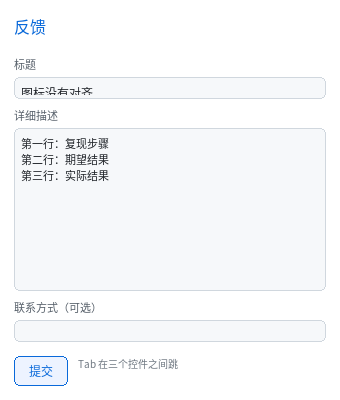
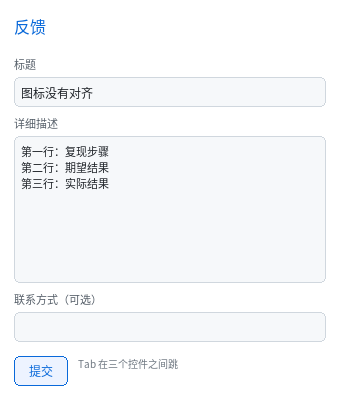
修复：多行输入框没有滚动条/滚轮滚不动；单行框文字被裁
1. 多行输入框的滚动没有出口
   textarea 的内容是它自己画的，不走容器那套 overflow + node->scroll_y，
   于是 nearest_scrollable() 找不到它 —— 滚轮在文本框上完全没反应，
   也没有滚动条可看。
   - 新增 input_scroll_max()（总视觉行数×行高 − 内容盒高）与
     input_scroll_by()（夹到 [0, max]，返回真正用掉的距离）；
   - WHEEL 分支先让最近的多行输入框吃，滚到尽头再把剩下的交给父容器；
   - 内容超高时在内容盒右缘画滑块，复用 scrollbar_thumb()，位置由
     in->scroll_y 决定；
   - 顺带把拖拽自动滚动里重复的 max 计算换成 input_scroll_max()。

2. 单行输入框文字只显示一半
   UA 给 input/select 的是 box-sizing: border-box + height: 24px，
   内容盒因此只剩 22px，而 line-height 是 24px → 上下各切一截。
   高度改成 26px（内容 24 + 上下边框 2），视觉尺寸与引入 border-box 之前一致。
   example_13_form 里写死的 height: 22px 同理改成 30px（22 内容 + 6 内边距 + 2 边框）。

测试：test_textarea +2（超高时右缘有滑块、滚轮一格画面变化且滑块下移、
连续滚到底后停住且末行仍可见）。ctest 60/60；strict、ASan、
lean/raw-only/full 预设全绿；13-form 截图重生成。

diff --git a/doc/html/tutorial/13_form.html b/doc/html/tutorial/13_form.html
@@ -339,6 +339,30 @@ main img.shot { max-width: 100%; }
 </code></pre></div>
 
 <p>横向同理（单行框也受益 —— 长文本时光标不再跑出框外）。</p>
+<h2 id="_5">滚动条与滚轮</h2>
+<p>内容的可滚范围是"总视觉行数 × 行高 − 内容盒高"（<code>input_scroll_max()</code>）。
+<strong>多行输入框的内容是它自己画的，没有子节点</strong>，所以它不走容器那套
+<code>overflow: auto</code> + <code>node-&gt;scroll_y</code>，偏移存在 <code>QLUIInput.scroll_y</code> 里：</p>
+<ul>
+<li>内容超高时在内容盒右缘画一根滑块（和容器滚动条同一个 <code>scrollbar_thumb()</code>，
+  位置由 <code>in-&gt;scroll_y</code> 决定）；</li>
+<li>滚轮事件先给多行输入框吃（<code>input_scroll_by()</code>），<strong>滚到尽头再把剩下的
+  交给父容器</strong> —— 与浏览器一致：文本框滚完，页面接着滚。</li>
+</ul>
+<div class="highlight"><pre><span></span><code><span class="cm">/* 滚轮处理里，找最近的 textarea 祖先，先让它滚 */</span>
+<span class="k">for</span><span class="w"> </span><span class="p">(</span><span class="n">QLUINodeRT</span><span class="w"> </span><span class="o">*</span><span class="n">n</span><span class="w"> </span><span class="o">=</span><span class="w"> </span><span class="n">hit</span><span class="p">;</span><span class="w"> </span><span class="n">n</span><span class="w"> </span><span class="o">!=</span><span class="w"> </span><span class="nb">NULL</span><span class="p">;</span><span class="w"> </span><span class="n">n</span><span class="w"> </span><span class="o">=</span><span class="w"> </span><span class="n">n</span><span class="o">-&gt;</span><span class="n">parent</span><span class="p">)</span><span class="w"> </span><span class="p">{</span>
+<span class="w">    </span><span class="k">struct</span><span class="w"> </span><span class="nc">QLUIInput</span><span class="w"> </span><span class="o">*</span><span class="n">in</span><span class="w"> </span><span class="o">=</span><span class="w"> </span><span class="n">input_of</span><span class="p">(</span><span class="n">ui</span><span class="p">,</span><span class="w"> </span><span class="n">n</span><span class="p">);</span>
+<span class="w">    </span><span class="k">if</span><span class="w"> </span><span class="p">(</span><span class="n">in</span><span class="w"> </span><span class="o">!=</span><span class="w"> </span><span class="nb">NULL</span><span class="w"> </span><span class="o">&amp;&amp;</span><span class="w"> </span><span class="n">in</span><span class="o">-&gt;</span><span class="n">multiline</span><span class="p">)</span><span class="w"> </span><span class="p">{</span>
+<span class="w">        </span><span class="n">dy</span><span class="w"> </span><span class="o">-=</span><span class="w"> </span><span class="n">input_scroll_by</span><span class="p">(</span><span class="n">in</span><span class="p">,</span><span class="w"> </span><span class="n">dy</span><span class="p">);</span><span class="w">      </span><span class="cm">/* 返回真正用掉的距离 */</span>
+<span class="w">        </span><span class="k">break</span><span class="p">;</span>
+<span class="w">    </span><span class="p">}</span>
+<span class="p">}</span>
+</code></pre></div>
+
+<blockquote>
+<p>这里有个坑：<code>nearest_scrollable()</code> 找不到 textarea（它不是可滚动容器），
+只靠容器那条路的话，滚轮在文本框上完全没反应。</p>
+</blockquote>
 <h2 id="x-y">拖选：按 (x, y) 定位，拖出框外会自己滚</h2>
 <p>鼠标拖选和"点哪落哪"必须走同一条定位路径：</p>
 <div class="highlight"><pre><span></span><code><span class="k">const</span><span class="w"> </span><span class="kt">uint16_t</span><span class="w"> </span><span class="n">pos</span><span class="w"> </span><span class="o">=</span><span class="w"> </span><span class="n">caret_at_xy</span><span class="p">(</span><span class="n">font</span><span class="p">,</span><span class="w"> </span><span class="n">in</span><span class="p">,</span><span class="w"> </span><span class="n">cb</span><span class="p">.</span><span class="n">w</span><span class="p">,</span><span class="w"> </span><span class="n">lh</span><span class="p">,</span>
@@ -351,14 +375,14 @@ main img.shot { max-width: 100%; }
 差别全在 <code>y</code> 上。</p>
 <p>指针拖到内容盒上方/下方（<code>y &lt; cb.y</code> 或 <code>y &gt; cb.y + cb.h</code>）时每帧按一次行高
 滚动，再重新定位光标，这样长文本能跨屏选。</p>
-<h2 id="_5">读值与写值</h2>
+<h2 id="_6">读值与写值</h2>
 <p>和 <code>&lt;input&gt;</code> 完全一样，不需要区分：</p>
 <div class="highlight"><pre><span></span><code><span class="n">printf</span><span class="p">(</span><span class="s">&quot;%s</span><span class="se">\n</span><span class="s">&quot;</span><span class="p">,</span><span class="w"> </span><span class="n">ql_ui_input_value</span><span class="p">(</span><span class="n">ui</span><span class="p">,</span><span class="w"> </span><span class="n">ta</span><span class="p">));</span><span class="w">       </span><span class="cm">/* 多行值里带真实 &#39;\n&#39; */</span>
 <span class="n">ql_ui_input_set_value</span><span class="p">(</span><span class="n">ui</span><span class="p">,</span><span class="w"> </span><span class="n">ta</span><span class="p">,</span><span class="w"> </span><span class="s">&quot;重新填</span><span class="se">\n</span><span class="s">两行&quot;</span><span class="p">);</span><span class="w">    </span><span class="cm">/* 光标移到末尾 */</span>
 </code></pre></div>
 
 <p><code>ql_ui_set_input_cb()</code> 的回调也是同一个 —— 拿到的 <code>value</code> 里含换行。</p>
-<h2 id="_6">一个完整的提交回路</h2>
+<h2 id="_7">一个完整的提交回路</h2>
 <div class="highlight"><pre><span></span><code><span class="k">static</span><span class="w"> </span><span class="kt">void</span><span class="w"> </span><span class="nf">on_input</span><span class="p">(</span><span class="n">QLUIRoot</span><span class="w"> </span><span class="o">*</span><span class="n">ui</span><span class="p">,</span><span class="w"> </span><span class="n">QLUINodeRT</span><span class="w"> </span><span class="o">*</span><span class="n">node</span><span class="p">,</span><span class="w"> </span><span class="k">const</span><span class="w"> </span><span class="kt">char</span><span class="w"> </span><span class="o">*</span><span class="n">value</span><span class="p">,</span><span class="w"> </span><span class="kt">void</span><span class="w"> </span><span class="o">*</span><span class="n">user</span><span class="p">)</span>
 <span class="p">{</span>
 <span class="w">    </span><span class="p">(</span><span class="kt">void</span><span class="p">)</span><span class="n">ui</span><span class="p">;</span><span class="w"> </span><span class="p">(</span><span class="kt">void</span><span class="p">)</span><span class="n">node</span><span class="p">;</span>
@@ -376,7 +400,7 @@ main img.shot { max-width: 100%; }
 打中文；XIM 不可用时退回 <code>XLookupString</code>，那时只有 Latin-1。
 没有输入法环境（比如裸 X）就还是只能用 <code>ql_ui_input_set_value()</code> 从程序里填。</p>
 </blockquote>
-<h2 id="_7">与浏览器不同的地方</h2>
+<h2 id="_8">与浏览器不同的地方</h2>
 <ol>
 <li><strong><code>rows</code> / <code>cols</code> 属性不解析</strong>，用 CSS 定尺寸（UA 默认 200×60）。</li>
 <li><strong>不折行</strong>时超长的单行会横向滚动，而不是撑出盒子（<code>pre-wrap</code> 默认是折行的，
@@ -384,7 +408,7 @@ main img.shot { max-width: 100%; }
 <li><strong><code>maxlength</code> 不解析</strong>，长度上限是编译期的 <code>QL_CFG_UI_TEXTAREA_LEN</code>。</li>
 <li><strong><code>spellcheck</code> / <code>placeholder</code> 不做</strong>（<code>placeholder</code> 在 <code>&lt;input&gt;</code> 上也没做）。</li>
 </ol>
-<h2 id="_8">到这里为止</h2>
+<h2 id="_9">到这里为止</h2>
 <p>能力包 <code>TEXT</code>（6 个）与 <code>CONTROL</code>（补齐 <code>textarea</code>）都完成了。
 剩下的是 <code>TABLE</code> 包 —— 10 个标签、唯一要从零写一套布局算法的一期，
 见 <a href="../../design/开发规划.html">开发规划</a>。</p>

diff --git a/doc/html/manual/ui/QLUI阅读指南.html b/doc/html/manual/ui/QLUI阅读指南.html
@@ -1017,7 +1017,7 @@ ql_text_wrap_ex(font, text, max_w, out, max_lines, keep_trailing)
 <tr>
 <td>输入</td>
 <td><code>input</code></td>
-<td>inline-block + <strong><code>box-sizing: border-box</code></strong> + 内边距 + 边框 + 圆角（<code>type=password</code> 额外置位）</td>
+<td>inline-block + <strong><code>box-sizing: border-box</code></strong> + 内边距 + 边框 + 圆角（<code>height: 26px</code> = 内容 24 + 上下边框；<code>type=password</code> 额外置位）</td>
 </tr>
 <tr>
 <td>多行输入</td>

diff --git a/test/web/test_textarea.c b/test/web/test_textarea.c
@@ -704,4 +704,118 @@ QL_TEST_BEGIN("test_textarea")
         }
     }
 
+    /* ---------- 20. 内容超高：有滚动条，滚轮能滚 ---------- */
+    {
+        s_disp = ql_disp_mem_create(W, H, QL_COLOR_RGB888);
+        QL_CHECK(s_disp != NULL);
+        if (s_disp != NULL) {
+            char html[512];
+            snprintf(html, sizeof(html),
+                     "<div id=r><textarea>l0\nl1\nl2\nl3\nl4\nl5\nl6\nl7\n"
+                     "l8\nl9\nl10\nl11\nl12\nl13\nl14\nl15\nl16\nl17\n"
+                     "l18\nl19</textarea></div>");
+            QLUIRoot *ui = NULL;
+            QLUIDoc *doc = mk(html,
+                              "#r { width: 200px } textarea { width: 200px; height: 60px;"
+                              " padding: 4px; color: #000000;"
+                              " background-color: #FFFFFF; line-height: 16px }", &ui);
+            QL_CHECK(ui != NULL);
+            if (ui != NULL) {
+                QLUINodeRT *ta = find_tag(ui, "textarea", 0);
+                const QLRect cb = ta->content_box;
+
+                /*
+                 * 观测手段两条：
+                 *   - 内容盒像素哈希：滚轮真的改画面；
+                 *   - 右侧滑块的最上一行：它随滚动位置往下走，而且到末尾就不动了。
+                 */
+                #define SIGNATURE(out_hash, out_top)                                   \
+                    do {                                                               \
+                        unsigned h_ = 2166136261u;                                     \
+                        int top_ = -1;                                                 \
+                        for (int y_ = cb.y; y_ < cb.y + cb.h; y_++)                    \
+                            for (int x_ = cb.x; x_ < cb.x + cb.w; x_++) {              \
+                                const ql_color_t c_ = px(x_, y_);                      \
+                                h_ = (h_ ^ (unsigned)c_) * 16777619u;                  \
+                                if (top_ < 0 && x_ >= cb.x + cb.w - 4 &&             \
+                                    c_ != 0xFFFFFF && c_ != 0xF6F8FA)                  \
+                                    top_ = y_;                                         \
+                            }                                                          \
+                        *(out_hash) = h_;                                              \
+                        *(out_top) = top_;                                             \
+                    } while (0)
+
+                QLCanvas cv;
+                QL_CHECK_EQ(ql_canvas_from_disp(&cv, s_disp), QL_OK);
+                ql_canvas_clear(&cv, 0xFFFFFF);
+                ql_ui_render_canvas(ui, &cv);
+
+                unsigned h0 = 0;
+                int top0 = -1;
+                SIGNATURE(&h0, &top0);
+                printf("    超高 textarea：滑块顶 %d\n", top0);
+                QL_CHECK(top0 >= cb.y);          /* 有滑块 */
+
+                QLInputEvent ev;
+                memset(&ev, 0, sizeof(ev));
+                ev.type = QL_INPUT_WHEEL;
+                ev.x = cb.x + 10;
+                ev.y = cb.y + 10;
+                ev.dy = 1;
+                ql_ui_input_event(ui, &ev);
+
+                ql_canvas_clear(&cv, 0xFFFFFF);
+                ql_ui_render_canvas(ui, &cv);
+                unsigned h1 = 0;
+                int top1 = -1;
+                SIGNATURE(&h1, &top1);
+                printf("    滚一格：滑块顶 %d → %d\n", top0, top1);
+                QL_CHECK(h1 != h0);              /* 滚轮真的动了画面 */
+                QL_CHECK(top1 > top0);           /* 滑块往下走了 */
+
+                /* 滚到底：继续滚不应该再动（不能滚进空白） */
+                for (int i = 0; i < 30; i++) {
+                    memset(&ev, 0, sizeof(ev));
+                    ev.type = QL_INPUT_WHEEL;
+                    ev.x = cb.x + 10;
+                    ev.y = cb.y + 10;
+                    ev.dy = 1;
+                    ql_ui_input_event(ui, &ev);
+                }
+                ql_canvas_clear(&cv, 0xFFFFFF);
+                ql_ui_render_canvas(ui, &cv);
+                unsigned h2 = 0;
+                int top2 = -1;
+                SIGNATURE(&h2, &top2);
+
+                memset(&ev, 0, sizeof(ev));
+                ev.type = QL_INPUT_WHEEL;
+                ev.x = cb.x + 10;
+                ev.y = cb.y + 10;
+                ev.dy = 1;
+                ql_ui_input_event(ui, &ev);
+                ql_canvas_clear(&cv, 0xFFFFFF);
+                ql_ui_render_canvas(ui, &cv);
+                unsigned h3 = 0;
+                int top3 = -1;
+                SIGNATURE(&h3, &top3);
+                QL_CHECK(h3 == h2);              /* 到底就停住 */
+                QL_CHECK(top2 > top1);
+
+                /* 末行看得见（滚到底不该是空白） */
+                int bottom_ink = 0;
+                for (int y = cb.y + cb.h - 16; y < cb.y + cb.h; y++)
+                    for (int x = cb.x; x < cb.x + cb.w; x++)
+                        if (px(x, y) != 0xFFFFFF)
+                            bottom_ink++;
+                QL_CHECK(bottom_ink > 0);
+                #undef SIGNATURE
+
+                ql_ui_free(ui);
+                ql_ui_doc_free(doc);
+            }
+            ql_disp_mem_destroy(s_disp);
+        }
+    }
+
 QL_TEST_END()

diff --git a/src/ui/qlui.c b/src/ui/qlui.c
@@ -1313,6 +1313,52 @@ static uint16_t caret_at_xy(const QLFont *font, const struct QLUIInput *in,
     return (uint16_t)(ls + within);
 }
 
+/*
+ * 多行输入框的内容可滚范围（像素）= 总视觉行数 × 行高 - 内容盒高。
+ * 和容器滚动（node->scroll_y）不是一回事：输入框的内容是它自己画的，
+ * 所以偏移存在 QLUIInput.scroll_y 里，不走 overflow 那套重排。
+ */
+static ql_coord_t input_scroll_max(const struct QLUIInput *in)
+{
+    if (in == NULL || in->node == NULL || !in->multiline)
+        return 0;
+    const QLFont *font = font_of_style(in->node, in->node->style);
+    if (font == NULL)
+        return 0;
+    const QLRect cb = in->node->content_box;
+    const ql_coord_t lh = line_height_of(font);
+    if (lh <= 0)
+        return 0;
+
+    QLTextLine lines[QL_CFG_TEXT_MAX_LINES];
+    int count = input_visual_lines(font, in, cb.w, lines, QL_CFG_TEXT_MAX_LINES);
+    if (count > QL_CFG_TEXT_MAX_LINES)
+        count = QL_CFG_TEXT_MAX_LINES;
+    if (count <= 0)
+        return 0;
+
+    const ql_coord_t total = (ql_coord_t)count * lh;
+    return (total > cb.h) ? (total - cb.h) : 0;
+}
+
+/* 滚多行文本；返回**真正用掉**的距离（到边界就是 0，调用方好接着往父级滚） */
+static ql_coord_t input_scroll_by(struct QLUIInput *in, ql_coord_t dy)
+{
+    if (in == NULL || in->node == NULL)
+        return 0;
+    const ql_coord_t max_y = input_scroll_max(in);
+    const ql_coord_t old = in->scroll_y;
+    ql_coord_t want = old + dy;
+    if (want < 0)
+        want = 0;
+    if (want > max_y)
+        want = max_y;
+    in->scroll_y = want;
+    if (want != old)
+        in->node->flags |= QL_UI_RT_DIRTY;
+    return want - old;
+}
+
 static int input_pointer_down(QLUIRoot *ui, QLUINodeRT *node, ql_coord_t x,
                               ql_coord_t y)
 {
@@ -1377,15 +1423,9 @@ static void input_pointer_move(QLUIRoot *ui, ql_coord_t x, ql_coord_t y)
         if (dy != 0) {
             const ql_coord_t step = (dy > 0) ? ((dy < lh) ? dy : lh)
                                              : ((-dy < lh) ? dy : -lh);
-            ql_coord_t want = in->scroll_y + step;
             /* 夹到内容末尾：不然拖到框外会一直滚进空白 */
-            QLTextLine lines[QL_CFG_TEXT_MAX_LINES];
-            int count = input_visual_lines(font, in, cb.w, lines, QL_CFG_TEXT_MAX_LINES);
-            if (count > QL_CFG_TEXT_MAX_LINES)
-                count = QL_CFG_TEXT_MAX_LINES;
-            ql_coord_t max_y = (count > 0) ? (count * lh - cb.h) : 0;
-            if (max_y < 0)
-                max_y = 0;          /* 内容比盒子矮：不能滚 */
+            const ql_coord_t max_y = input_scroll_max(in);
+            ql_coord_t want = in->scroll_y + step;
             if (want < 0)
                 want = 0;
             if (want > max_y)
@@ -3837,6 +3877,21 @@ static void draw_input_decor(QLUINodeRT *node, QLDraw2D *d2d)
                                         (lh > 4) ? lh - 4 : lh);
                 d2d->fill_rect(d2d, r, node->style->text_color, 255);
             }
+
+            /*
+             * 内容比盒子高就画一根滑块。它跟容器滚动条长得一样，但位置由
+             * `in->scroll_y` 决定 —— 多行输入框的内容是自己画的，没有子节点。
+             */
+            const ql_coord_t content_h = (ql_coord_t)count * lh;
+            if (content_h > cb.h && d2d->fill_round_rect != NULL) {
+                ql_coord_t th = 0, ty = 0;
+                scrollbar_thumb(cb.h, content_h - cb.h, in->scroll_y, &th, &ty);
+                if (th > 0) {
+                    QLRect bar = ql_rect_make(ql_rect_right(cb) - SCROLLBAR_INSET - SCROLLBAR_W,
+                                              cb.y + ty, SCROLLBAR_W, th);
+                    d2d->fill_round_rect(d2d, bar, SCROLLBAR_W / 2, 0x808080, 0x96);
+                }
+            }
         }
         /* 提前返回前**必须**恢复裁剪：否则后面所有节点都被裁在输入框里 */
         if (deco_clipped) {
@@ -5277,6 +5332,21 @@ void ql_ui_input_event(QLUIRoot *ui, const QLInputEvent *ev)
         ql_coord_t dy = (ql_coord_t)ev->dy * step;
 
         QLUINodeRT *hit = ql_ui_hit_test(ui, ev->x, ev->y);
+
+        /*
+         * 多行输入框先吃滚轮：它的内容是**自己画的**，不在 overflow 那套里，
+         * `nearest_scrollable()` 找不到它。滚到尽头再把剩下的交给父容器。
+         */
+        if (dy != 0) {
+            for (QLUINodeRT *n = hit; n != NULL; n = n->parent) {
+                struct QLUIInput *tin = input_of(ui, n);
+                if (tin != NULL && tin->multiline) {
+                    dy -= input_scroll_by(tin, dy);
+                    break;
+                }
+            }
+        }
+
         QLUINodeRT *target = nearest_scrollable(hit);
         for (int guard = 0; target != NULL && (dy != 0 || dx != 0) && guard < 8;
              guard++) {

diff --git a/src/ui/qlui_parse.c b/src/ui/qlui_parse.c
@@ -4019,9 +4019,14 @@ static int ua_defaults(const char *tag, Decls *out)
      * max-content 走（和文本节点一样），想固定就自己写 width。
      */
     if (strcmp(tag, "input") == 0) {
+        /*
+     * `height` 是**边框盒**高度（UA 默认 box-sizing: border-box），
+     * 所以按"内容 24 + 上下边框 2"写成 26 —— 不然内容盒只有 22px，
+     * 而 line-height 是 24px，文字上下各被切掉一截（截图里"字只显示一半"）。
+     */
         return decls_set(out, "display", "inline-block") &&
                decls_set(out, "box-sizing", "border-box") &&
-               decls_set(out, "height", "24px") &&
+               decls_set(out, "height", "26px") &&
                decls_set(out, "padding", "0 8px") &&
                decls_set(out, "line-height", "24px") &&
                decls_set(out, "border-width", "1px") &&
@@ -4036,9 +4041,14 @@ static int ua_defaults(const char *tag, Decls *out)
      * <option>：**不参与布局**（display:none），只在展开的面板里画。
      */
     if (strcmp(tag, "select") == 0) {
+        /*
+     * `height` 是**边框盒**高度（UA 默认 box-sizing: border-box），
+     * 所以按"内容 24 + 上下边框 2"写成 26 —— 不然内容盒只有 22px，
+     * 而 line-height 是 24px，文字上下各被切掉一截（截图里"字只显示一半"）。
+     */
         return decls_set(out, "display", "inline-block") &&
                decls_set(out, "box-sizing", "border-box") &&
-               decls_set(out, "height", "24px") &&
+               decls_set(out, "height", "26px") &&
                decls_set(out, "padding", "0 8px") &&
                decls_set(out, "line-height", "24px") &&
                decls_set(out, "border-width", "1px") &&

diff --git a/example/13_form.c b/example/13_form.c
@@ -62,7 +62,9 @@ static const char *k_css =
      * 不加它的话 padding + border 会加在 100% 外面，控件会比父容器更宽、
      * 右边直接顶到窗口边缘（截图里"输入框和窗口贴住了"就是这个）。
      */
-    "input { display: block; width: 100%; height: 22px; padding: 3px 6px;"
+    /* `height` 是边框盒：22(内容) + 3×2(内边距) + 1×2(边框) = 30px；
+       写成 22px 的话内容盒只剩 14px，比行高还矮，字上下都会被切掉。 */
+    "input { display: block; width: 100%; height: 30px; padding: 3px 6px;"
     "        box-sizing: border-box;"
     "        border-width: 1px; border-color: #D0D7DE; border-radius: 4px;"
     "        background-color: #F6F8FA; color: #1F2328; }"

diff --git a/doc/tutorial/13_form.md b/doc/tutorial/13_form.md
@@ -100,6 +100,31 @@ else if (cy + lh - in->scroll_y > cb.h)
 
 横向同理（单行框也受益 —— 长文本时光标不再跑出框外）。
 
+## 滚动条与滚轮
+
+内容的可滚范围是"总视觉行数 × 行高 − 内容盒高"（`input_scroll_max()`）。
+**多行输入框的内容是它自己画的，没有子节点**，所以它不走容器那套
+`overflow: auto` + `node->scroll_y`，偏移存在 `QLUIInput.scroll_y` 里：
+
+- 内容超高时在内容盒右缘画一根滑块（和容器滚动条同一个 `scrollbar_thumb()`，
+  位置由 `in->scroll_y` 决定）；
+- 滚轮事件先给多行输入框吃（`input_scroll_by()`），**滚到尽头再把剩下的
+  交给父容器** —— 与浏览器一致：文本框滚完，页面接着滚。
+
+```c
+/* 滚轮处理里，找最近的 textarea 祖先，先让它滚 */
+for (QLUINodeRT *n = hit; n != NULL; n = n->parent) {
+    struct QLUIInput *in = input_of(ui, n);
+    if (in != NULL && in->multiline) {
+        dy -= input_scroll_by(in, dy);      /* 返回真正用掉的距离 */
+        break;
+    }
+}
+```
+
+> 这里有个坑：`nearest_scrollable()` 找不到 textarea（它不是可滚动容器），
+> 只靠容器那条路的话，滚轮在文本框上完全没反应。
+
 ## 拖选：按 (x, y) 定位，拖出框外会自己滚
 
 鼠标拖选和"点哪落哪"必须走同一条定位路径：

diff --git a/doc/手册/ui/QLUI阅读指南.md b/doc/手册/ui/QLUI阅读指南.md
@@ -632,7 +632,7 @@ ql_text_wrap_ex(font, text, max_w, out, max_lines, keep_trailing)
 | 列表 | `ul` `ol` / `li` | block + `margin: 8px 0` / block；`padding-left: 18px` |
 | 空元素 | `hr` / `br` | 1px 细线 + margin / 高度 0 的块 |
 | 控件 | `button` | inline-block + **`box-sizing: border-box`** + 内边距 + 边框 + 圆角 |
-| 输入 | `input` | inline-block + **`box-sizing: border-box`** + 内边距 + 边框 + 圆角（`type=password` 额外置位） |
+| 输入 | `input` | inline-block + **`box-sizing: border-box`** + 内边距 + 边框 + 圆角（`height: 26px` = 内容 24 + 上下边框；`type=password` 额外置位） |
 | 多行输入 | `textarea` | inline-block + **`box-sizing: border-box`** + 200×60 + **`white-space: pre-wrap`** + 等宽 + 边框 |
 | 下拉 | `select` / `option` / `optgroup` | 与 `input` 同形（同样 `border-box`）/ **`display: none`** |
 | 位图 | `img` | 固有尺寸来自 doc 的资源条目（不看解码是否成功）；`text` 存**资源名** |
